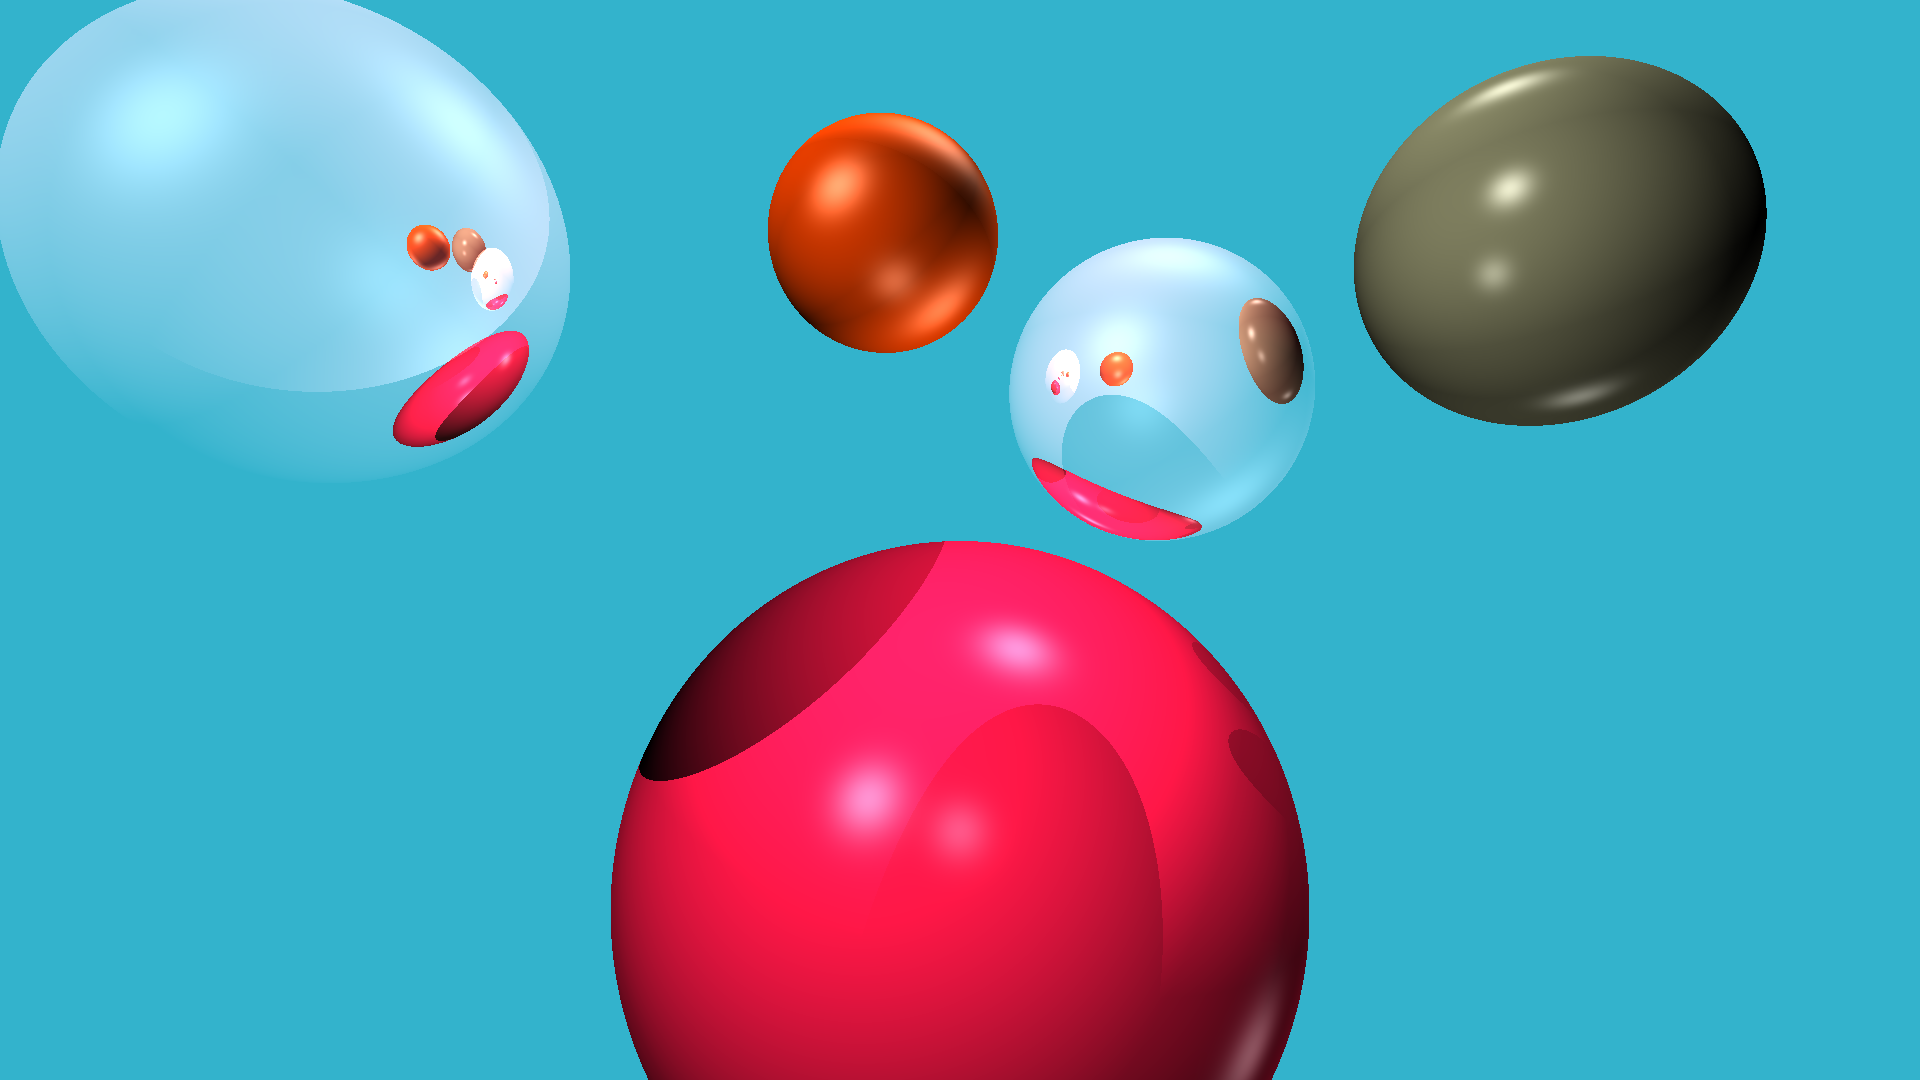
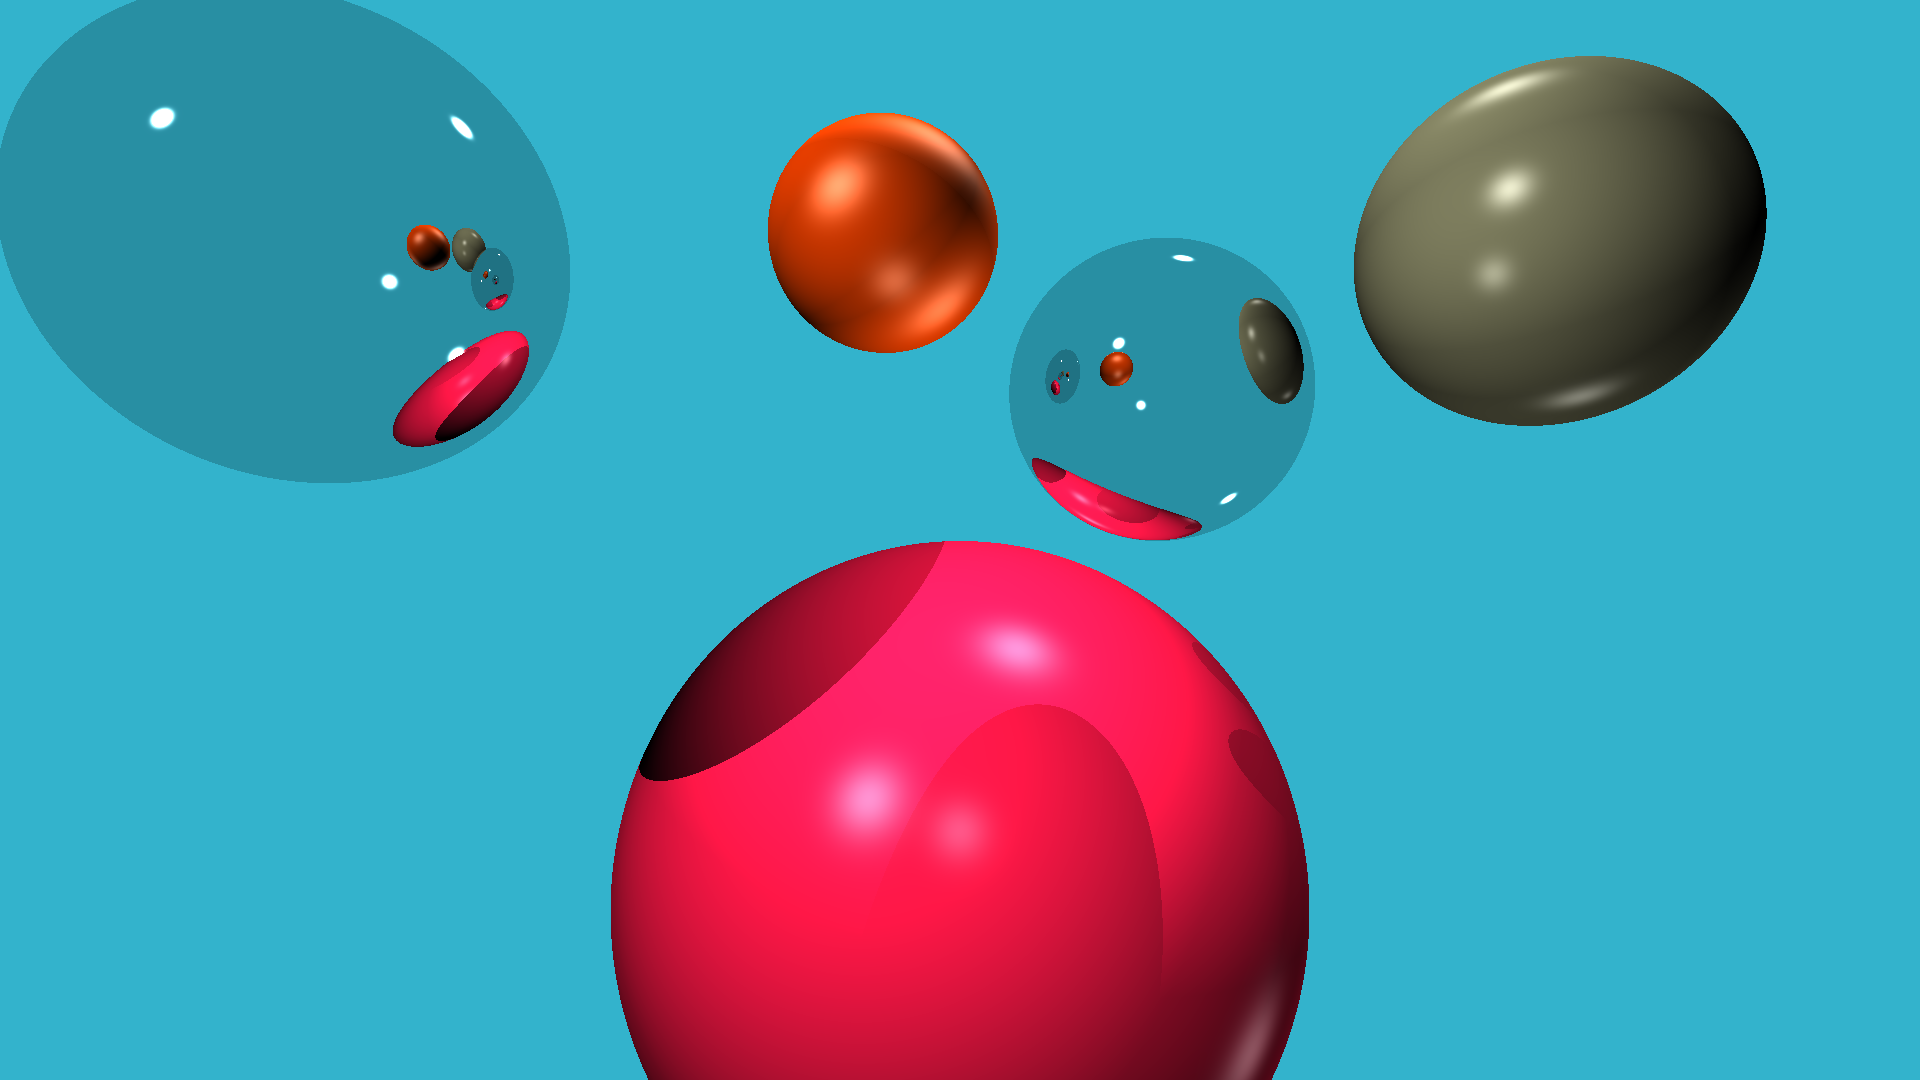
Fix reflection

Changed region(s): [[0.0, 0.0, 0.3125, 0.4583], [0.5, 0.2139, 0.6875, 0.5194]]

diff --git a/sphere.h b/sphere.h
@@ -24,17 +24,19 @@ public:
 
 namespace Materials
 {
-    const Material ivory      (gear::Vec3f(0.6,  0.3, 0.0), gear::Vec3f(0.4,  0.4,  0.3),  50.);
+    const Material ivory      (gear::Vec3f(0.6,  0.3, 0.0), gear::Vec3f(0.4,  0.4,  0.3 ), 50.);
 
-    const Material red_rubber (gear::Vec3f(0.9,  0.1, 1  ), gear::Vec3f(0.3,  0.1,  0.1),  10.);
+    const Material red_rubber (gear::Vec3f(0.9,  0.1, 1  ), gear::Vec3f(0.3,  0.1,  0.1 ), 10.);
 
-    const Material aqua       (gear::Vec3f(0.6,  0.3, 0.0), gear::Vec3f(0,    1,    1),    50.);
+    const Material aqua       (gear::Vec3f(0.6,  0.3, 0.0), gear::Vec3f(0,    1,    1   ), 50.);
 
     const Material silver     (gear::Vec3f(0.6,  0.3, 1  ), gear::Vec3f(0.75, 0.75, 0.75), 10.);
 
     const Material crimson    (gear::Vec3f(0.6,  0.3, 0.0), gear::Vec3f(0.86, 0.08, 0.24), 50.);
 
-    const Material orange_red (gear::Vec3f(0.6,  0.3, 0.0), gear::Vec3f(1.f,  0.27, 0.f),  10.);
+    const Material orange_red (gear::Vec3f(0.6,  0.3, 0.0), gear::Vec3f(1.f,  0.27, 0.f ), 10.);
+
+    const Material mirror     (gear::Vec3f(0.0, 10.0, 0.8), gear::Vec3f(1.0, 1.0, 1.0),  1425.);
 }
 
 class Sphere

diff --git a/main.cpp b/main.cpp
@@ -20,9 +20,9 @@ int main()
 
     spheres.push_back(Sphere(gear::Vec3f(  0,  10, -30),  10, Materials::crimson   ));
     spheres.push_back(Sphere(gear::Vec3f( -1,  -4, -13), 1.5, Materials::orange_red));
-    spheres.push_back(Sphere(gear::Vec3f(-11,  -5, -17),   4, Materials::red_rubber));
+    spheres.push_back(Sphere(gear::Vec3f(-11,  -5, -17),   4, Materials::mirror));
     spheres.push_back(Sphere(gear::Vec3f( 10,  -5, -17),   3, Materials::ivory     ));
-    spheres.push_back(Sphere(gear::Vec3f(  4,  -3, -20),   3, Materials::red_rubber     ));
+    spheres.push_back(Sphere(gear::Vec3f(  4,  -3, -20),   3, Materials::mirror));
 
     lights.push_back(Light(gear::Vec3f(-30, -30,  20), 1.5));
     lights.push_back(Light(gear::Vec3f(  0,   0, -10), 0.8));
